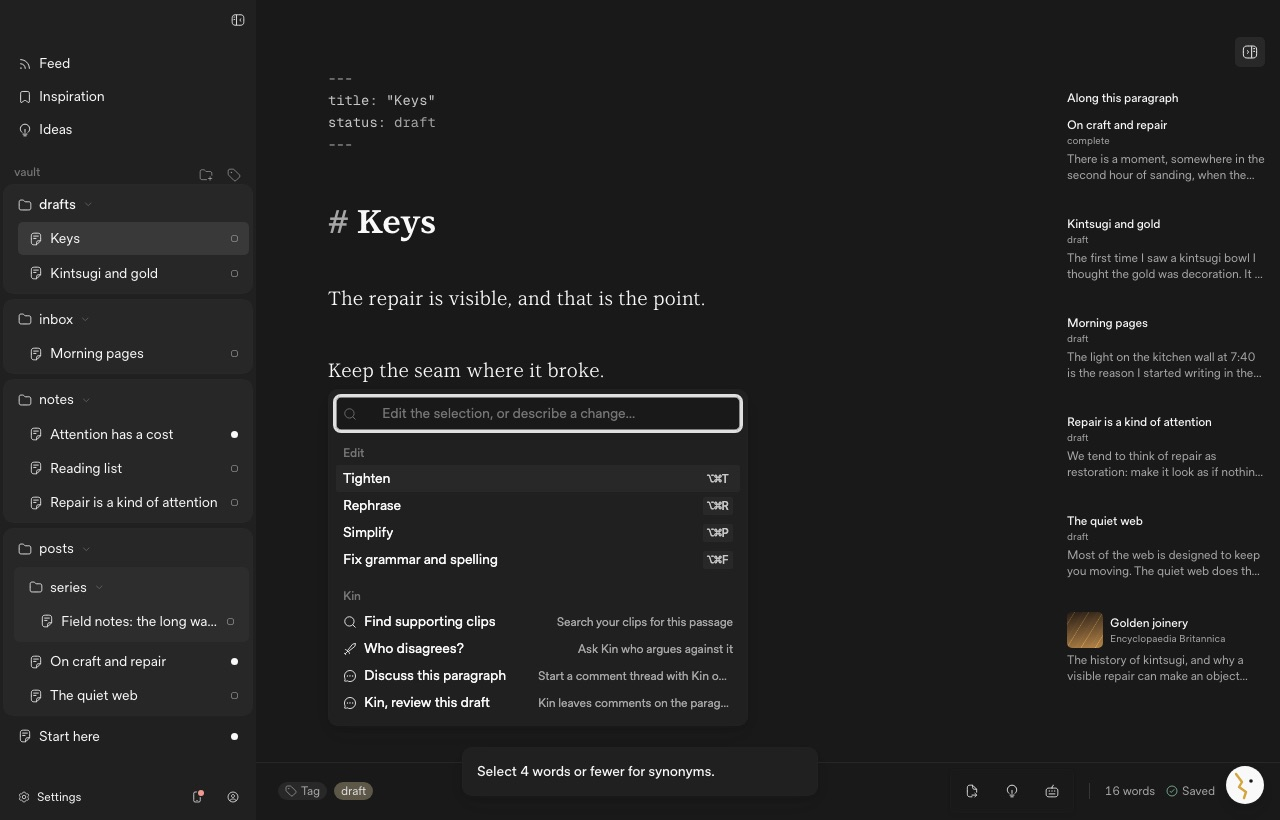
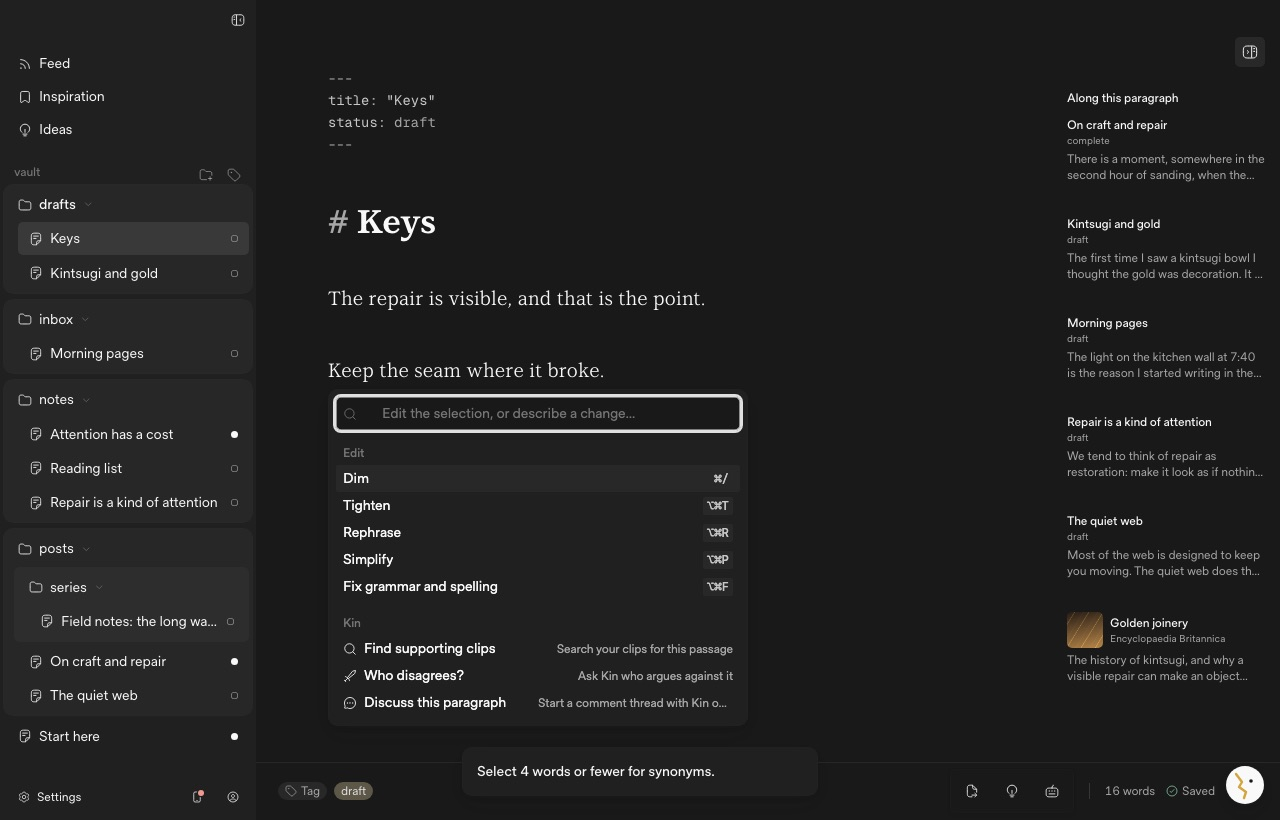
KI-85: Dim (⌘/, KI-88) in the registry and the selection menu; ⇧F10 focuses the first row; screenshots

Changed region(s): [[0.25, 0.5793, 0.4062, 0.8841], [0.4375, 0.7317, 0.5625, 0.8841]]

diff --git a/apps/desktop/src/refine/SelectionMenu.tsx b/apps/desktop/src/refine/SelectionMenu.tsx
@@ -1,6 +1,7 @@
 import type { EditorView } from "@codemirror/view";
 import { Fragment, useEffect, useMemo, useRef, useState, type RefObject } from "react";
 import { toast } from "sonner";
+import { formatShortcuts, isDimmed, toggleDimRange } from "@kintsugi/editor/Editor";
 import { Menu } from "@kintsugi/ui/graphical";
 import { discuss } from "@/lib/chat";
 import { ariaKeys, keysOf, matches } from "@/lib/keys";
@@ -17,13 +18,16 @@ type Props = {
   onRefine: (from: number, to: number, action?: Action) => void;
 };
 
-type Place = { x: number; y: number; from: number; to: number };
+/** ⌘/, from the editor's keymap. */
+const DIM = formatShortcuts.find((s) => s.label === "Dim")!.key;
+
+type Place = { x: number; y: number; from: number; to: number; keyboard?: boolean };
 type Row = { id: string; label: string; keys?: string; spec?: string; run: () => void };
 
 /** Right-click on a selection, or ⇧F10 (the context-menu key too): what can
  *  be done with it, each row with its key, which is how the keys are learnt.
  *  Anywhere else the Mac's own menu shows, with its spelling suggestions.
- *  Alternatives, dim and stash (KI-86, KI-88, KI-89) add their rows here. */
+ *  Alternatives and stash (KI-86, KI-89) add their rows here. */
 export function SelectionMenu({ viewRef, path, onRefine }: Props) {
   const [at, setAt] = useState<Place | null>(null);
   // An item that moves focus itself (⌘K, Kin's chat) keeps it.
@@ -51,7 +55,7 @@ export function SelectionMenu({ viewRef, path, onRefine }: Props) {
       e.preventDefault();
       e.stopPropagation();
       const coords = view.coordsAtPos(head, head === from ? 1 : -1) ?? view.coordsAtPos(to);
-      if (coords) open({ x: coords.left, y: coords.bottom, from, to });
+      if (coords) open({ x: coords.left, y: coords.bottom, from, to, keyboard: true });
     };
     view.contentDOM.addEventListener("contextmenu", onContextMenu);
     view.contentDOM.addEventListener("keydown", onKeyDown, true);
@@ -60,6 +64,21 @@ export function SelectionMenu({ viewRef, path, onRefine }: Props) {
       view.contentDOM.removeEventListener("keydown", onKeyDown, true);
     };
   }, [viewRef]);
+
+  // Opened from the keyboard: the first row has focus, so ↩ runs it and
+  // ↓ goes on from there, as in a Mac menu opened with keys.
+  useEffect(() => {
+    if (!at?.keyboard) return;
+    let frame = 0;
+    let tries = 0;
+    const focusFirst = () => {
+      const first = document.querySelector<HTMLElement>(".ki-selection-menu [role=menuitem]");
+      if (first) first.focus();
+      else if (tries++ < 30) frame = requestAnimationFrame(focusFirst);
+    };
+    frame = requestAnimationFrame(focusFirst);
+    return () => cancelAnimationFrame(frame);
+  }, [at]);
 
   const anchor = useMemo(
     () => at && { getBoundingClientRect: () => DOMRect.fromRect({ x: at.x, y: at.y, width: 0, height: 0 }) },
@@ -92,6 +111,8 @@ export function SelectionMenu({ viewRef, path, onRefine }: Props) {
           spec: SHORTCUTS[a.id as ShortcutId]?.key,
           run: leave(() => onRefine(from, to, a)),
         })),
+    // Writes the passage's comment markers; no model involved (KI-88).
+    locked ? [] : [{ id: "dim", label: isDimmed(view.state, from, to) ? "Undim" : "Dim", keys: keysOf(DIM), spec: DIM, run: () => { toggleDimRange(view, from, to); view.focus(); } }],
     [
       { id: "refine", label: "Edit with Kin…", ...key("refine"), run: leave(() => onRefine(from, to)) },
       { id: "ask", label: "Ask Kin", ...key("kin"), run: leave(() => discuss(passageChips(view, path, from, to))) },

diff --git a/apps/desktop/test/runtime-keyboard.test.ts b/apps/desktop/test/runtime-keyboard.test.ts
@@ -55,7 +55,9 @@ async function select(word: string) {
   await line(word).getByText(word, { exact: false }).first().waitFor();
   const box = await page.evaluate((word) => {
     for (const el of document.querySelectorAll(".cm-line")) {
-      const node = [...el.childNodes].flatMap((n) => (n.nodeType === 3 ? [n] : [...n.childNodes].filter((c) => c.nodeType === 3))).find((n) => n.textContent!.includes(word));
+      const walker = document.createTreeWalker(el, NodeFilter.SHOW_TEXT);
+      let node: Node | null = null;
+      while (walker.nextNode()) if (walker.currentNode.textContent!.includes(word)) { node = walker.currentNode; break; }
       if (!node) continue;
       const range = document.createRange();
       const at = node.textContent!.indexOf(word);
@@ -109,7 +111,7 @@ test("right-click on a selection shows what applies to it, each with its key", {
   const rows = await menu().getByRole("menuitem").evaluateAll((items) => items.map((item) => item.textContent?.trim()));
   assert.deepEqual(rows, [
     "Tighten⌥⌘T", "Rephrase⌥⌘R", "Simplify⌥⌘P", "Fix grammar and spelling⌥⌘F", "Synonyms⌥⌘S",
-    "Edit with Kin…⌘K", "Ask Kin⌘J", "Cut⌘X", "Copy⌘C",
+    "Dim⌘/", "Edit with Kin…⌘K", "Ask Kin⌘J", "Cut⌘X", "Copy⌘C",
   ]);
   await shot("03-selection-menu");
   await page.keyboard.press("Escape");
@@ -119,11 +121,29 @@ test("right-click on a selection shows what applies to it, each with its key", {
   assert.ok(await page.evaluate(() => document.activeElement?.classList.contains("cm-content")));
 });
 
+test("Dim in the menu dims the selection, and the menu then offers Undim", { timeout: 60_000 }, async () => {
+  const at = await select("seam");
+  await page.mouse.click(at.x, at.y, { button: "right" });
+  await menu().getByRole("menuitem", { name: /^Dim/ }).click();
+  await onDisk((t) => t.includes("Keep the <!-- seam --> where"), "the selection is dimmed");
+  const again = await select("seam");
+  await page.mouse.click(again.x, again.y, { button: "right" });
+  await menu().getByRole("menuitem", { name: /^Undim/ }).waitFor();
+  await page.keyboard.press("Escape");
+  await page.keyboard.press("Meta+z");
+  await onDisk((t) => t.includes("Keep the seam where"), "undo takes the dim back out");
+});
+
 test("⇧F10 opens it from the keyboard; a row runs its edit", { timeout: 60_000 }, async () => {
   await select("repair");
   await page.keyboard.press("Shift+F10");
   await menu().waitFor();
+  // The first row has focus; ↓ and ↑ move, ↩ runs it.
+  await menu().getByRole("menuitem", { name: /Tighten/ }).and(page.locator(":focus")).waitFor();
   await page.keyboard.press("ArrowDown");
+  await menu().getByRole("menuitem", { name: /Rephrase/ }).and(page.locator(":focus")).waitFor();
+  await page.keyboard.press("ArrowUp");
+  await menu().getByRole("menuitem", { name: /Tighten/ }).and(page.locator(":focus")).waitFor();
   await page.keyboard.press("Enter");
   await menu().waitFor({ state: "detached" });
   await refine().getByText("Tighten").first().waitFor();

diff --git a/apps/desktop/src/lib/shortcuts.test.ts b/apps/desktop/src/lib/shortcuts.test.ts
@@ -100,6 +100,12 @@ test("no two shortcuts share a key where both work, CodeMirror's and the Mac's i
   assert.deepEqual(Object.keys(OVERRIDES).filter((id) => !overridden.has(id)), [], "OVERRIDES entries that no longer clash");
 });
 
+test("⌘/ is Dim's alone: CodeMirror's comment toggles are out of the keymap", () => {
+  const dim = uses().filter((use) => canonical(use.spec) === canonical("Mod-/"));
+  assert.deepEqual(dim.map((use) => use.from), ["format: Mod-/"]);
+  assert.ok(!OVERRIDES[canonical("Mod-/")]);
+});
+
 test("CodeMirror's keys in the list are still its keys", () => {
   const theirs = new Set(builtinKeymap.flatMap(macSpecs).map(canonical));
   for (const s of entries().filter((s) => s.builtin)) assert.ok(theirs.has(canonical(s.key)), `${s.label} ${s.key}`);

diff --git a/README.md b/README.md
@@ -8,7 +8,7 @@ Your writing lives in a **vault**: a plain folder of `.md` / `.mdx` files (by de
 
 Hold ⌘ for a moment to see the shortcuts that work where you are, beside their buttons and in a list. ⇧⌘/ or the keyboard button under a document lists them all; type to filter. Right-click a selection (or press ⇧F10) for what you can do with it, each with its key.
 
-⌥⌘T, ⌥⌘R, ⌥⌘P, ⌥⌘F and ⌥⌘S run ⌘K's edits on the selection (or the paragraph) straight away, and show the result to accept or discard like ⌘K. In ⌘P, `#tag` filters by tag. ⌘= and ⌘− are also in Settings › General.
+⌥⌘T, ⌥⌘R, ⌥⌘P, ⌥⌘F and ⌥⌘S run ⌘K's edits on the selection (or the paragraph) straight away, and show the result to accept or discard like ⌘K. ⌘/ dims the selection (or the line) in place, and dimmed text is left out of publish and export. In ⌘P, `#tag` filters by tag. ⌘= and ⌘− are also in Settings › General.
 
 Every shortcut is defined once, in `apps/desktop/src/lib/shortcuts.ts` (the editor's formatting keys in `packages/editor/src/format.ts`). The tests fail on a key that's taken twice, CodeMirror's and the Mac's own keys included, and on tables below that don't match; `pnpm shortcuts:readme` rewrites them.
 
@@ -72,6 +72,7 @@ Every shortcut is defined once, in `apps/desktop/src/lib/shortcuts.ts` (the edit
 | ⇧⌘8 | Bulleted list |
 | ⇧⌘9 | To-do list |
 | ⇧⌘. | Quote |
+| `⌘/` | Dim |
 
 ### Text
 

diff --git a/docs/kin.md b/docs/kin.md
@@ -841,11 +841,11 @@ Code: `packages/editor/src/commands.ts` (`/`), `references.ts` (`[[` and
   can still start with any letter. Synonyms need four words or fewer; a
   read-only mirror refuses them.
 - **Right-click on a selection** (or ⇧F10, or the context-menu key) opens
-  `src/refine/SelectionMenu.tsx`: those edits, *Edit with Kin…* (⌘K), *Ask
+  `src/refine/SelectionMenu.tsx`: those edits, *Dim* (⌘/, KI-88), *Edit with Kin…* (⌘K), *Ask
   Kin* (⌘J; the chat with the passage attached), then Cut and Copy, each row
   with its key. A right-click anywhere else keeps the Mac's menu and its
-  spelling suggestions. Alternatives, dim and stash (KI-86, KI-88, KI-89) add
-  their rows; their keys are already held in `src/lib/shortcuts.ts`.
+  spelling suggestions. Alternatives and stash (KI-86, KI-89) add their rows;
+  their keys are already held in `src/lib/shortcuts.ts`.
 - **Phone width.** Both menus fit `100vw − 16px`, rows are at least 44 px
   on a coarse pointer, and touch hints replace the key hints there.
 - **Headless.** With `KINTSUGI_HEADLESS_KIN=mock`, `ai_providers` offers the
